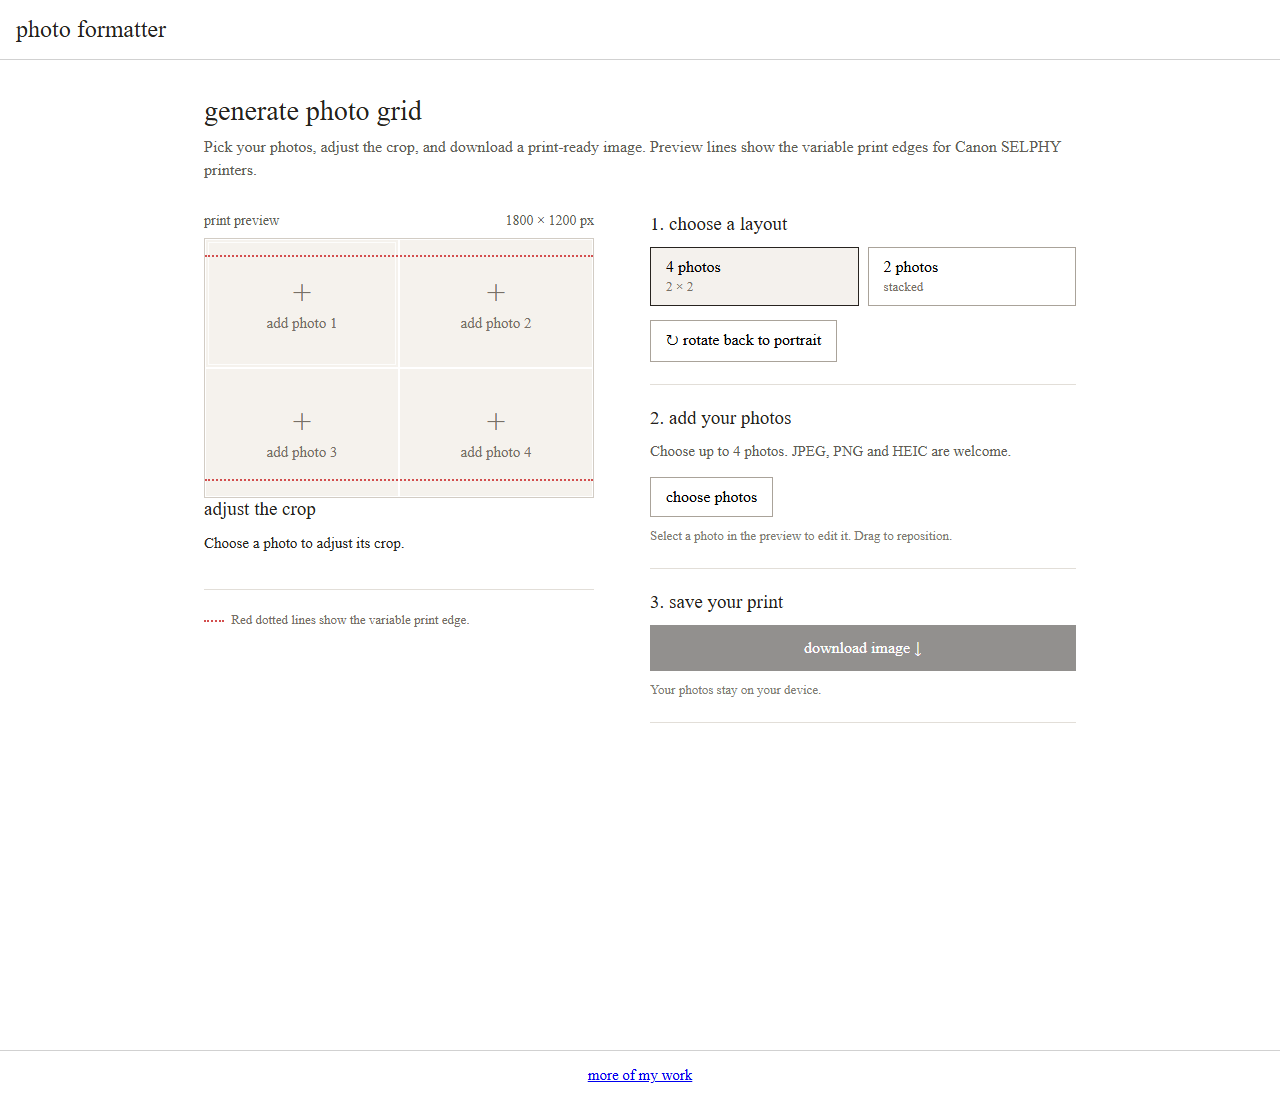
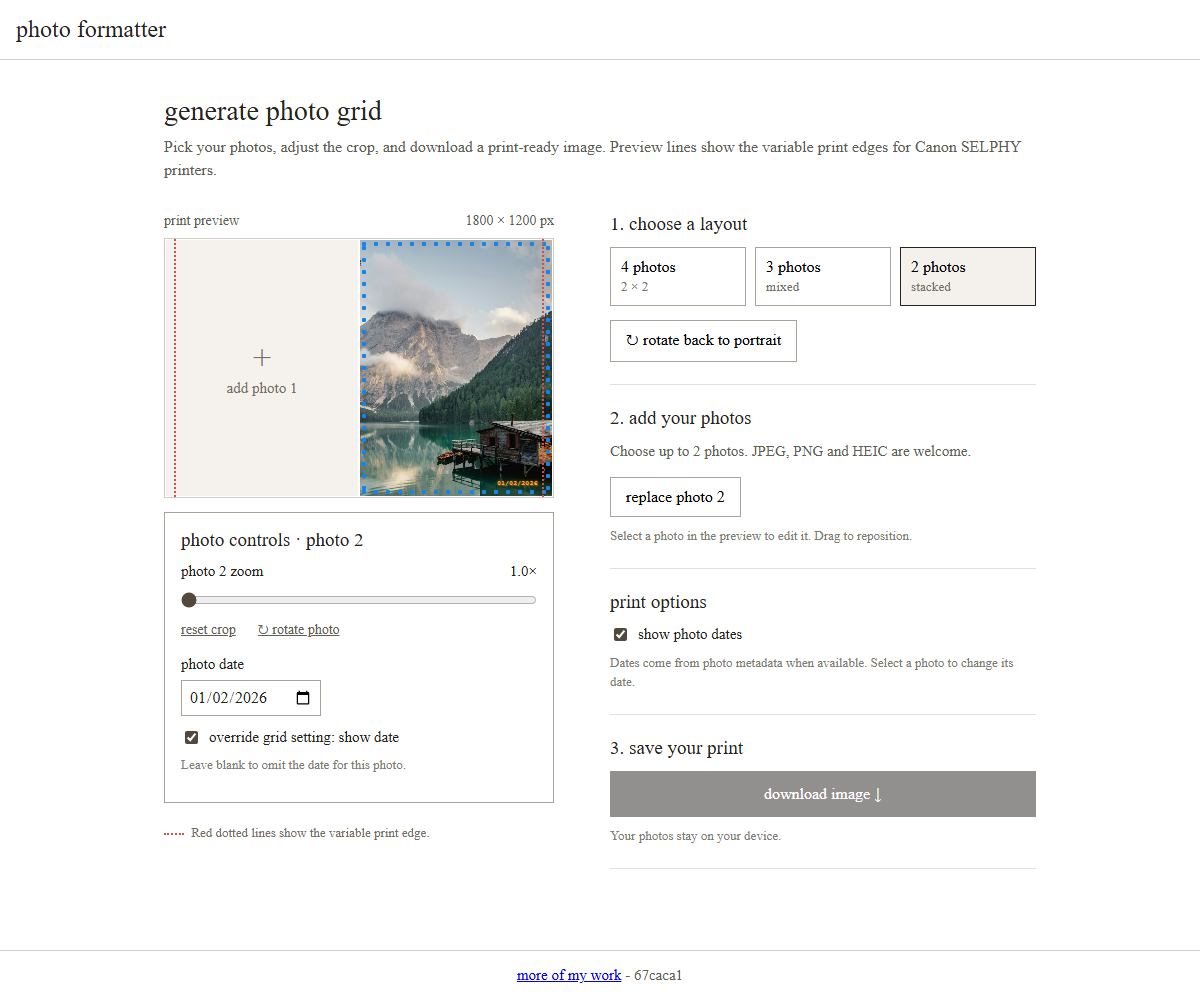
Refresh readme and screenshot

diff --git a/README.md b/README.md
@@ -1,14 +1,14 @@
-# Photo formatter
-
-[Open the photo formatter](https://bmitchinson.github.io/photo-grid-creation-tool/)
+# 📷 Photo Formatter - [Visit the site](https://bmitchinson.github.io/photo-grid-creation-tool/)
 
 Arrange two, three, or four photos into a print-ready grid. Adjust each crop and download the result as a JPEG in portrait or landscape. The preview shows the variable print edges for Canon SELPHY printers.
 
-![Photo formatter showing the landscape grid preview and controls](docs/screenshot.png)
+<img src="docs/screenshot.png" alt="Photo formatter with a sample image in the two-photo layout" width="70%">
+
+Photos are processed on your device. HEIC and HEIF files use a local conversion fallback when the browser cannot open them directly.
 
 Example printed result:
 
-![Example of a printed photo grid](docs/printed-result.jpg)
+<img src="docs/printed-result.jpg" alt="Example of a printed photo grid" width="70%">
 
 ## How it was built
 
@@ -16,12 +16,6 @@ Example printed result:
 - Coding agent: Pi, running under Herdr
 - Build machine: home lab Windows desktop running WSL
 - Remote access: Tailscale and Heeler on iOS
-
-## Printing and privacy
-
-The red dotted preview lines sit 43 pixels in from the left and right edges of the output and are not included in the downloaded image. Allow for print variation when positioning photos.
-
-Photos are processed on your device. HEIC and HEIF files use a local conversion fallback when the browser cannot open them directly.
 
 ## Development
 
